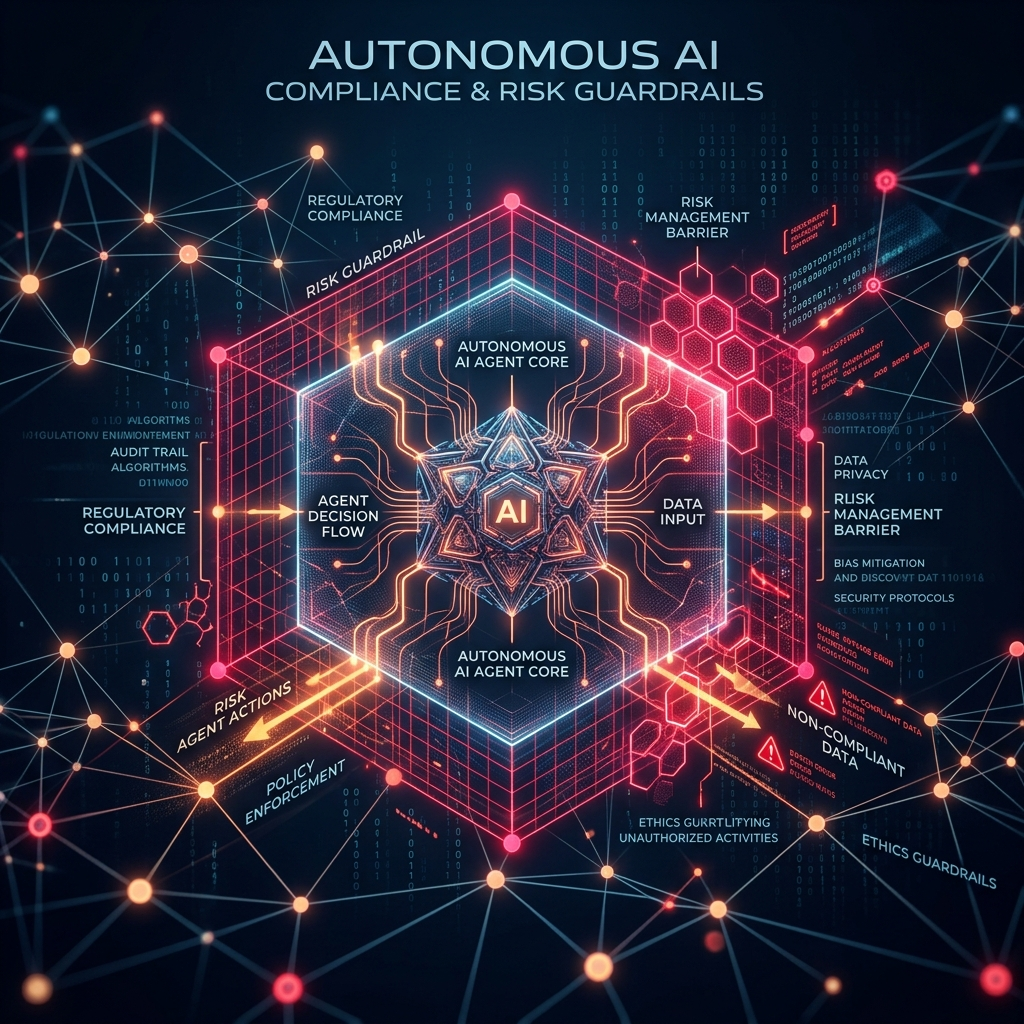
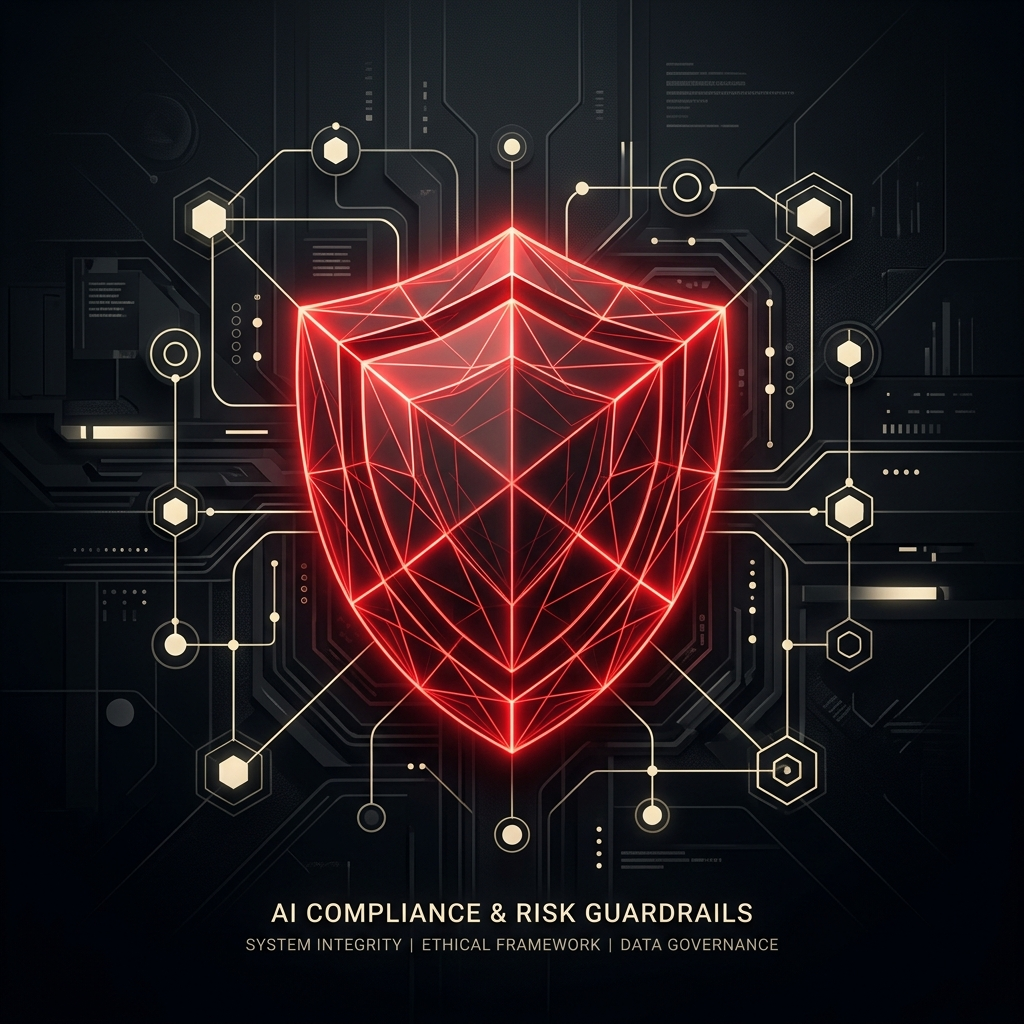
feat: add read briefing slide drawer to Industries section and update agentic AI compliance image

diff --git a/src/components/Industries.tsx b/src/components/Industries.tsx
@@ -1,6 +1,7 @@
 "use client";
 
-import React from "react";
+import React, { useState } from "react";
+import { motion, AnimatePresence } from "framer-motion";
 import {
   Landmark,
   Activity,
@@ -11,6 +12,9 @@ import {
   Radio,
   GraduationCap,
   ArrowUpRight,
+  X,
+  FileText,
+  ArrowRight,
 } from "lucide-react";
 
 interface IndustryItem {
@@ -20,9 +24,12 @@ interface IndustryItem {
   icon: React.ComponentType<{ className?: string }>;
   color: string;
   schematic: React.ReactNode;
+  briefing: string[];
 }
 
 export default function Industries() {
+  const [activeIndustry, setActiveIndustry] = useState<IndustryItem | null>(null);
+
   const handlePointerMove = (e: React.PointerEvent<HTMLDivElement>) => {
     const card = e.currentTarget;
     const rect = card.getBoundingClientRect();
@@ -97,7 +104,12 @@ export default function Industries() {
           <text x="135" y="38" fill="rgba(250, 250, 248, 0.4)" fontFamily="monospace" fontSize="5.5">LOW: 120.45</text>
           <text x="145" y="165" fill="rgba(250, 250, 248, 0.2)" fontFamily="monospace" fontSize="5">TRANS_LEDGER_SYS</text>
         </svg>
-      )
+      ),
+      briefing: [
+        "The modern financial landscape demands a migration from legacy monolithic ledgers to distributed, real-time transaction fabrics that maintain ACID compliance at scale.",
+        "By implementing microsecond-latency event-driven architectures and edge-optimized verification, financial institutions can eliminate settle-phase friction, increase transaction throughput, and enhance security profiles.",
+        "Red Bridge works with global banking leaders to design resilient experience networks that bridge legacy cores with next-generation digital banking APIs."
+      ]
     },
     {
       id: 2,
@@ -124,7 +136,12 @@ export default function Industries() {
           <text x="30" y="45" fill="rgba(250, 250, 248, 0.2)" fontFamily="monospace" fontSize="5">GEN_SEQUENCE: AT-CG-TA</text>
           <text x="30" y="165" fill="rgba(250, 250, 248, 0.2)" fontFamily="monospace" fontSize="5">DATA_FABRIC_NODE_L4</text>
         </svg>
-      )
+      ),
+      briefing: [
+        "Connecting disparate clinical data silos requires a high-performance, compliant data fabric that guarantees interoperability without sacrificing patient privacy.",
+        "We deploy secure experience networks and unified patient interfaces that combine electronic health records, diagnostic telemetry, and clinical trial datasets in real time.",
+        "By optimizing query performance across federated health networks, we enable researchers and practitioners to collaborate at the speed of thought."
+      ]
     },
     {
       id: 3,
@@ -148,7 +165,12 @@ export default function Industries() {
           <text x="30" y="30" fill="rgba(250, 250, 248, 0.2)" fontFamily="monospace" fontSize="5">OMNICHANNEL_MAP_V3</text>
           <text x="30" y="175" fill="rgba(250, 250, 248, 0.2)" fontFamily="monospace" fontSize="5">CONSUMER_NPS: +84%</text>
         </svg>
-      )
+      ),
+      briefing: [
+        "Modern commerce is defined by omnichannel orchestration—delivering seamless, personalized experiences across physical, web, mobile, and conversational interfaces.",
+        "Through sub-second data streaming and predictive customer analytics, we help retailers map and respond to user behavior at every touchpoint of their buying journey.",
+        "Our architectures ensure high-concurrency cart processing, real-time inventory synchronization, and AI-driven personalization engines that boost conversion rates."
+      ]
     },
     {
       id: 4,
@@ -173,7 +195,12 @@ export default function Industries() {
           <text x="25" y="30" fill="rgba(250, 250, 248, 0.2)" fontFamily="monospace" fontSize="5">AI_ENGINE_CORE_v1.0</text>
           <text x="135" y="170" fill="rgba(250, 250, 248, 0.2)" fontFamily="monospace" fontSize="5">NODE_SYS: OK</text>
         </svg>
-      )
+      ),
+      briefing: [
+        "Scaling SaaS platforms requires robust engineering design patterns, sub-second API performance, and reliable AI integration capabilities.",
+        "We advise technology organizations on re-architecting their systems for elastic scale, building secure multitenant frameworks, and establishing zero-trust access controls.",
+        "By standardizing telemetry data pipelines and reducing build-to-deploy loop latencies, we optimize developer experience and engineering velocity."
+      ]
     },
     {
       id: 5,
@@ -197,7 +224,12 @@ export default function Industries() {
           <text x="30" y="25" fill="rgba(250, 250, 248, 0.2)" fontFamily="monospace" fontSize="5">DIGITAL_TWIN: ACTIVE</text>
           <text x="110" y="175" fill="rgba(250, 250, 248, 0.2)" fontFamily="monospace" fontSize="5">SCALE: 1:500</text>
         </svg>
-      )
+      ),
+      briefing: [
+        "Industry 4.0 leverages digital twins and real-time sensor streams to optimize factory floor operations, minimize downtime, and manage value chain supply lines.",
+        "Our solutions construct unified industrial data fabrics that ingest high-velocity IoT telemetry, perform predictive anomaly detection, and orchestrate maintenance workflows.",
+        "By bridging operational technology (OT) with enterprise software, we unlock unparalleled visibility and operational efficiency."
+      ]
     },
     {
       id: 6,
@@ -221,7 +253,12 @@ export default function Industries() {
           <text x="30" y="20" fill="rgba(250, 250, 248, 0.2)" fontFamily="monospace" fontSize="5">CIVIC_TRANS_SYS: L2</text>
           <text x="30" y="175" fill="rgba(250, 250, 248, 0.2)" fontFamily="monospace" fontSize="5">INFRA_LOAD: 34% (OK)</text>
         </svg>
-      )
+      ),
+      briefing: [
+        "Public sector digital transformation requires resilient, accessible, and secure citizen-facing portals built on modern cloud-native infrastructures.",
+        "We build smart city networks, open-data pipelines, and identity federation architectures that prioritize accessibility, trust, and scalability.",
+        "Our design system approach guarantees compliance with international accessibility standards (WCAG) while delivering responsive, clean public services."
+      ]
     },
     {
       id: 7,
@@ -247,7 +284,12 @@ export default function Industries() {
           <text x="30" y="25" fill="rgba(250, 250, 248, 0.2)" fontFamily="monospace" fontSize="5">FREQUENCY_BAND: 5G_NSA</text>
           <text x="30" y="180" fill="rgba(250, 250, 248, 0.2)" fontFamily="monospace" fontSize="5">LATENCY: 4.2ms (EXCELLENT)</text>
         </svg>
-      )
+      ),
+      briefing: [
+        "The rollout of 5G networks unlocks ultra-low latency applications, requiring next-generation edge computing architectures and real-time traffic analysis.",
+        "We design high-throughput network monitoring interfaces and predictive load-balancing frameworks that operate at the packet level.",
+        "By optimizing data plane performance and visual telemetry, telecom operators can locate network bottlenecks and deliver premium quality of service."
+      ]
     },
     {
       id: 8,
@@ -272,7 +314,12 @@ export default function Industries() {
           <text x="30" y="25" fill="rgba(250, 250, 248, 0.2)" fontFamily="monospace" fontSize="5">KNOWLEDGE_LINK_ENGINE</text>
           <text x="30" y="175" fill="rgba(250, 250, 248, 0.2)" fontFamily="monospace" fontSize="5">PROP_SCORE: 0.994</text>
         </svg>
-      )
+      ),
+      briefing: [
+        "Next-generation education platforms leverage adaptive learning algorithms and rich visual interfaces to create personalized student outcomes.",
+        "We build unified educational portals and knowledge graph engines that track student engagement, tailor content delivery, and streamline administration.",
+        "Our architectures are designed for high-concurrency classroom environments, ensuring seamless live video feeds, real-time collaborations, and accessible learning tools."
+      ]
     },
   ];
 
@@ -319,7 +366,8 @@ export default function Industries() {
                 onPointerLeave={handlePointerLeave}
                 onPointerUp={handlePointerLeave}
                 onPointerCancel={handlePointerLeave}
-                className="group tilt-card relative flex flex-col justify-between p-7 min-h-[290px] rounded bg-[#0A0A0A]/40 border border-white/5 overflow-hidden transition-all duration-500 ease-out cursor-default select-none glass-panel red-glow-hover"
+                onClick={() => setActiveIndustry(ind)}
+                className="group tilt-card relative flex flex-col justify-between p-7 min-h-[340px] rounded bg-[#0A0A0A]/40 border border-white/5 overflow-hidden transition-all duration-500 ease-out cursor-pointer select-none glass-panel red-glow-hover"
                 style={{
                   transformStyle: "preserve-3d",
                   transform: "perspective(1000px) rotateX(var(--tilt-x, 0deg)) rotateY(var(--tilt-y, 0deg))",
@@ -356,7 +404,7 @@ export default function Industries() {
                 </div>
 
                 {/* Card Content Bottom: Typography */}
-                <div className="flex flex-col gap-2.5 mt-12 z-10" style={{ transform: "translate3d(0, 0, 10px)" }}>
+                <div className="flex flex-col gap-2.5 mt-8 z-10" style={{ transform: "translate3d(0, 0, 10px)" }}>
                   {/* Title */}
                   <h3 className="font-serif text-xl md:text-2xl text-cream leading-tight">
                     {ind.title}
@@ -367,6 +415,22 @@ export default function Industries() {
                   </p>
                 </div>
 
+                {/* Footer / Read Briefing */}
+                <div 
+                  className="flex justify-between items-center pt-4 border-t border-white/5 mt-auto z-10 w-full"
+                  style={{ transform: "translate3d(0, 0, 15px)" }}
+                >
+                  <span className="text-[10px] font-mono text-cream/35 uppercase tracking-widest">
+                    Briefing Available
+                  </span>
+                  
+                  <div className="flex items-center gap-1 text-[10px] font-mono text-bridge-red uppercase tracking-wider group-hover:translate-x-1 transition-transform duration-300">
+                    <FileText className="w-3.5 h-3.5 mr-1" />
+                    Read Briefing
+                    <ArrowRight className="w-3 h-3 ml-0.5" />
+                  </div>
+                </div>
+
                 {/* Decorative bottom hairline accent that glows red on hover */}
                 <div className="absolute bottom-0 inset-x-0 h-[1.5px] card-hairline pointer-events-none" />
               </div>
@@ -374,6 +438,76 @@ export default function Industries() {
           })}
         </div>
       </div>
+
+      {/* Industry Detail Drawer Overlay & Drawer */}
+      <AnimatePresence>
+        {activeIndustry && (
+          <>
+            {/* Backdrop Overlay */}
+            <motion.div
+              initial={{ opacity: 0 }}
+              animate={{ opacity: 0.6 }}
+              exit={{ opacity: 0 }}
+              onClick={() => setActiveIndustry(null)}
+              className="fixed inset-0 bg-black z-50 backdrop-blur-sm"
+            />
+
+            {/* Sliding Panel */}
+            <motion.div
+              initial={{ x: "100%" }}
+              animate={{ x: 0 }}
+              exit={{ x: "100%" }}
+              transition={{ type: "spring", damping: 30, stiffness: 220 }}
+              className="fixed right-0 top-0 bottom-0 w-full md:w-[600px] bg-background/98 border-l border-white/5 z-50 p-8 md:p-12 overflow-y-auto flex flex-col justify-between shadow-2xl"
+            >
+              <div>
+                {/* Header Actions */}
+                <div className="flex justify-between items-center mb-8 border-b border-white/5 pb-6">
+                  <span className="text-[10px] font-mono tracking-widest text-bridge-red uppercase">
+                    Sector Briefing • SEC_{activeIndustry.id.toString().padStart(2, '0')}
+                  </span>
+                  <button
+                    onClick={() => setActiveIndustry(null)}
+                    className="text-cream/50 hover:text-cream transition-colors p-2 rounded bg-white/5 hover:bg-white/10 cursor-pointer"
+                  >
+                    <X className="w-5 h-5" />
+                  </button>
+                </div>
+
+                {/* SVG Schematic Blueprint Box */}
+                <div className="relative w-full h-64 mb-8 overflow-hidden rounded border border-white/5 bg-black/45 flex items-center justify-center drawer-schematic-container">
+                  <div className="w-48 h-48 relative">
+                    {activeIndustry.schematic}
+                  </div>
+                </div>
+
+                {/* Title and Icon */}
+                <div className="flex items-start gap-4 mb-8">
+                  <div className="p-3 rounded border border-white/10 bg-white/5 text-bridge-red mt-1 shrink-0">
+                    {React.createElement(activeIndustry.icon, { className: "w-6 h-6" })}
+                  </div>
+                  <h3 className="font-serif text-3xl md:text-4xl text-cream leading-tight">
+                    {activeIndustry.title}
+                  </h3>
+                </div>
+
+                {/* Briefing Content */}
+                <div className="space-y-6 text-sm font-sans text-cream/75 leading-relaxed">
+                  {activeIndustry.briefing.map((p, i) => (
+                    <p key={i}>{p}</p>
+                  ))}
+                </div>
+              </div>
+
+              {/* Footer signature */}
+              <div className="mt-12 pt-6 border-t border-white/5 text-[10px] font-mono text-cream/35 uppercase flex justify-between items-center">
+                <span>Sector ID: SEC_{activeIndustry.id.toString().padStart(2, '0')}</span>
+                <span className="text-bridge-red font-semibold">Red Bridge Advisory</span>
+              </div>
+            </motion.div>
+          </>
+        )}
+      </AnimatePresence>
     </section>
   );
 }

diff --git a/src/app/globals.css b/src/app/globals.css
@@ -215,3 +215,9 @@ html, body {
   }
 }
 
+/* Drawer SVG Schematic blueprint override */
+.drawer-schematic-container .card-schematic {
+  opacity: 0.65 !important;
+}
+
+